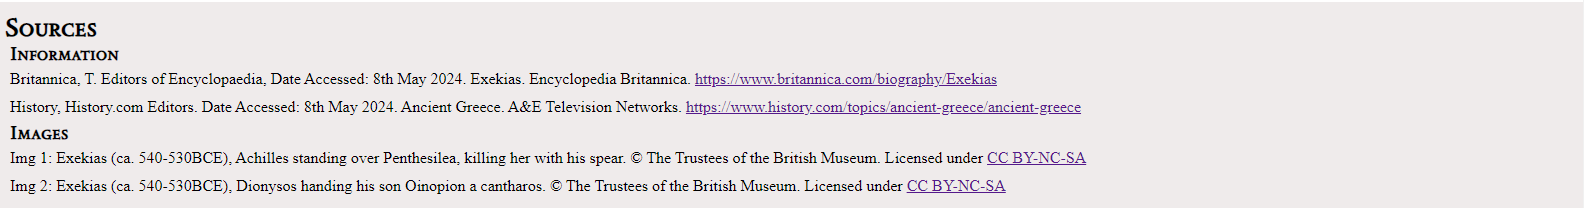
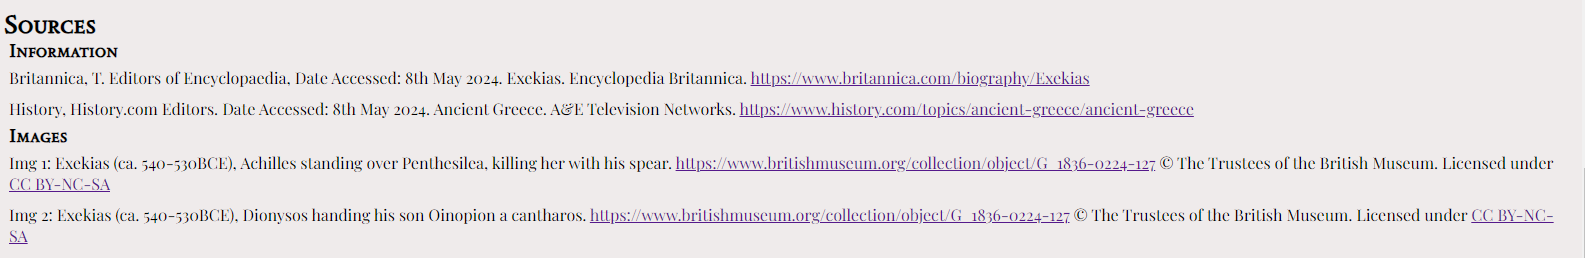
Update sources and README.md

Changed region(s): [[0.0, 0.6058, 0.9899, 0.9519], [0.0, 0.0577, 0.7734, 0.4615], [0.0, 0.4904, 0.6806, 0.5769]]

diff --git a/index.html b/index.html
@@ -26,7 +26,7 @@
     <main>
         <section id="amphora">
             <div id="amphora-content">
-                <!-- Download "34520001.jpg" provided by: © The Trustees of the British Museum. Licensed under CC BY-NC-SA. See sources section -->
+                <!-- Download "34520001.jpg" from https://www.britishmuseum.org/collection/object/G_1836-0224-127, provided by: © The Trustees of the British Museum. Licensed under CC BY-NC-SA. See sources section -->
                 <div>
                     <img class="full-screen-width" src="assets/images/34520001.jpg"
                         alt="An amphora depiting Achilles standing over Penthesilea and killing her with his spear, while hers misses him.">
@@ -64,7 +64,7 @@
                     </p>
                 </div>
                 <div>
-                    <!-- Download "1299177001.jpg" rovided by: © The Trustees of the British Museum. Licensed under CC BY-NC-SA. See sources section -->
+                    <!-- Download "1299177001.jpg" from https://www.britishmuseum.org/collection/object/G_1836-0224-127, provided by: © The Trustees of the British Museum. Licensed under CC BY-NC-SA. See sources section -->
                     <img class="full-screen-width" src="assets/images/1299177001.jpg"
                         alt="An amphora depicting the greek god Dionysos handing a cantharos to his son Oinopion">
                 </div>
@@ -89,13 +89,17 @@
             <h3>Images</h3>
             <ul>
                 <li class="source-list-item">Img 1: Exekias (ca. 540-530BCE), Achilles standing over Penthesilea,
-                    killing her with his spear. ©
+                    killing her with his spear. <a
+                        href="https://www.britishmuseum.org/collection/object/G_1836-0224-127" target="_blank"
+                        rel="noopener">https://www.britishmuseum.org/collection/object/G_1836-0224-127</a> ©
                     The Trustees of the British Museum. Licensed under <a
                         href="https://creativecommons.org/licenses/by-nc-sa/4.0/" target="_blank" rel="noopener">CC
                         BY-NC-SA</a>
                 </li>
                 <li class="source-list-item">Img 2: Exekias (ca. 540-530BCE), Dionysos handing his son Oinopion a
-                    cantharos. ©
+                    cantharos. <a
+                    href="https://www.britishmuseum.org/collection/object/G_1836-0224-127" target="_blank"
+                    rel="noopener">https://www.britishmuseum.org/collection/object/G_1836-0224-127</a> ©
                     The Trustees of the British Museum. Licensed under <a
                         href="https://creativecommons.org/licenses/by-nc-sa/4.0/" target="_blank" rel="noopener">CC
                         BY-NC-SA</a>
@@ -130,13 +134,13 @@
         <p>012 3456 78910 | amphorapersons@email.com</p>
         <ul id="social-media">
             <li><a href="http://facebook.com" aria-label="Go to our Facebook page" rel="noopener" target="_blank"><i
-                            class="fa-brands fa-facebook"></i></a></li>
+                        class="fa-brands fa-facebook"></i></a></li>
 
-            <li><a href="http://instagram.com" aria-label="Go to our Instagram page" rel="noopener"
-                        target="_blank"><i class="fa-brands fa-instagram"></i></a></li>
+            <li><a href="http://instagram.com" aria-label="Go to our Instagram page" rel="noopener" target="_blank"><i
+                        class="fa-brands fa-instagram"></i></a></li>
 
             <li><a href="http://twitter.com" aria-label="Go to our twitter page" rel="noopener" target="_blank"><i
-                            class="fa-brands fa-twitter"></i></a></li>
+                        class="fa-brands fa-twitter"></i></a></li>
         </ul>
     </footer>
 
